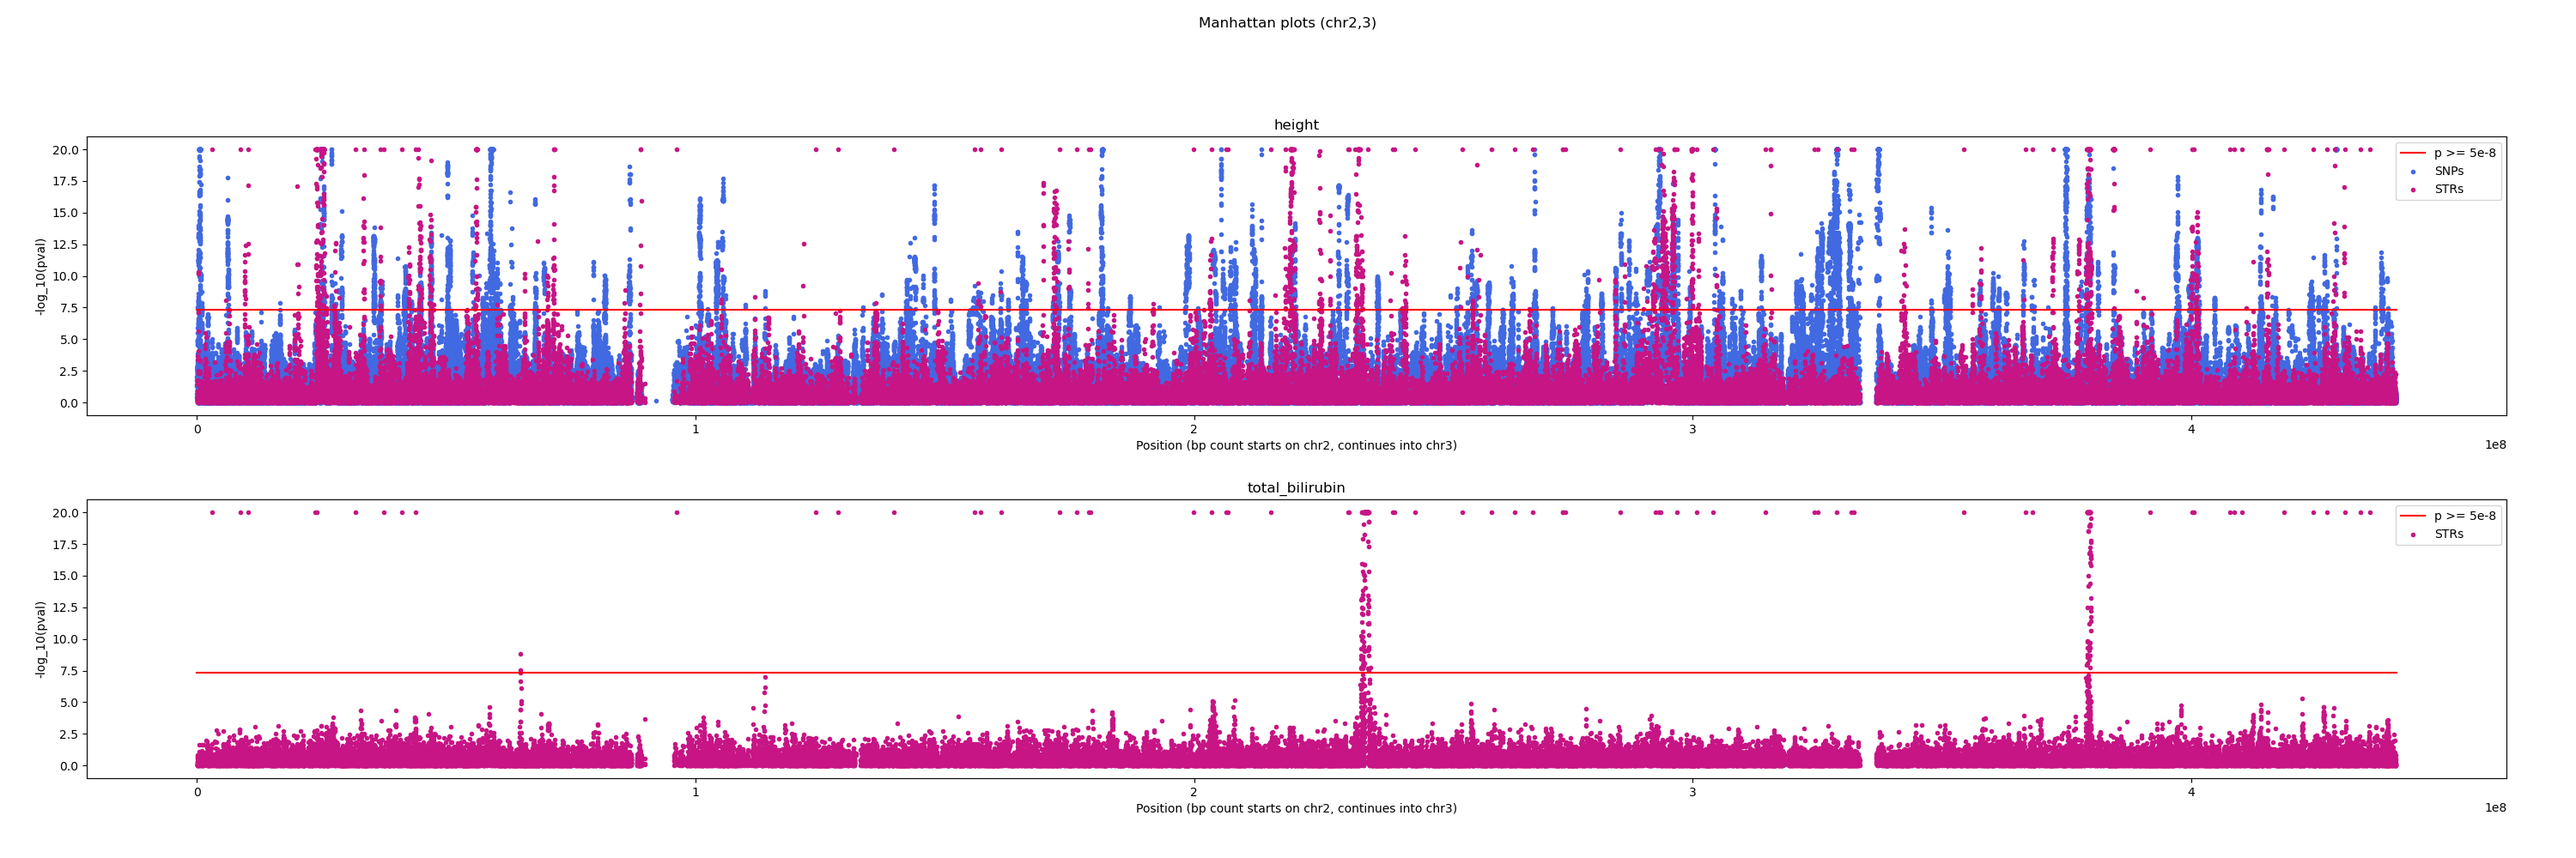
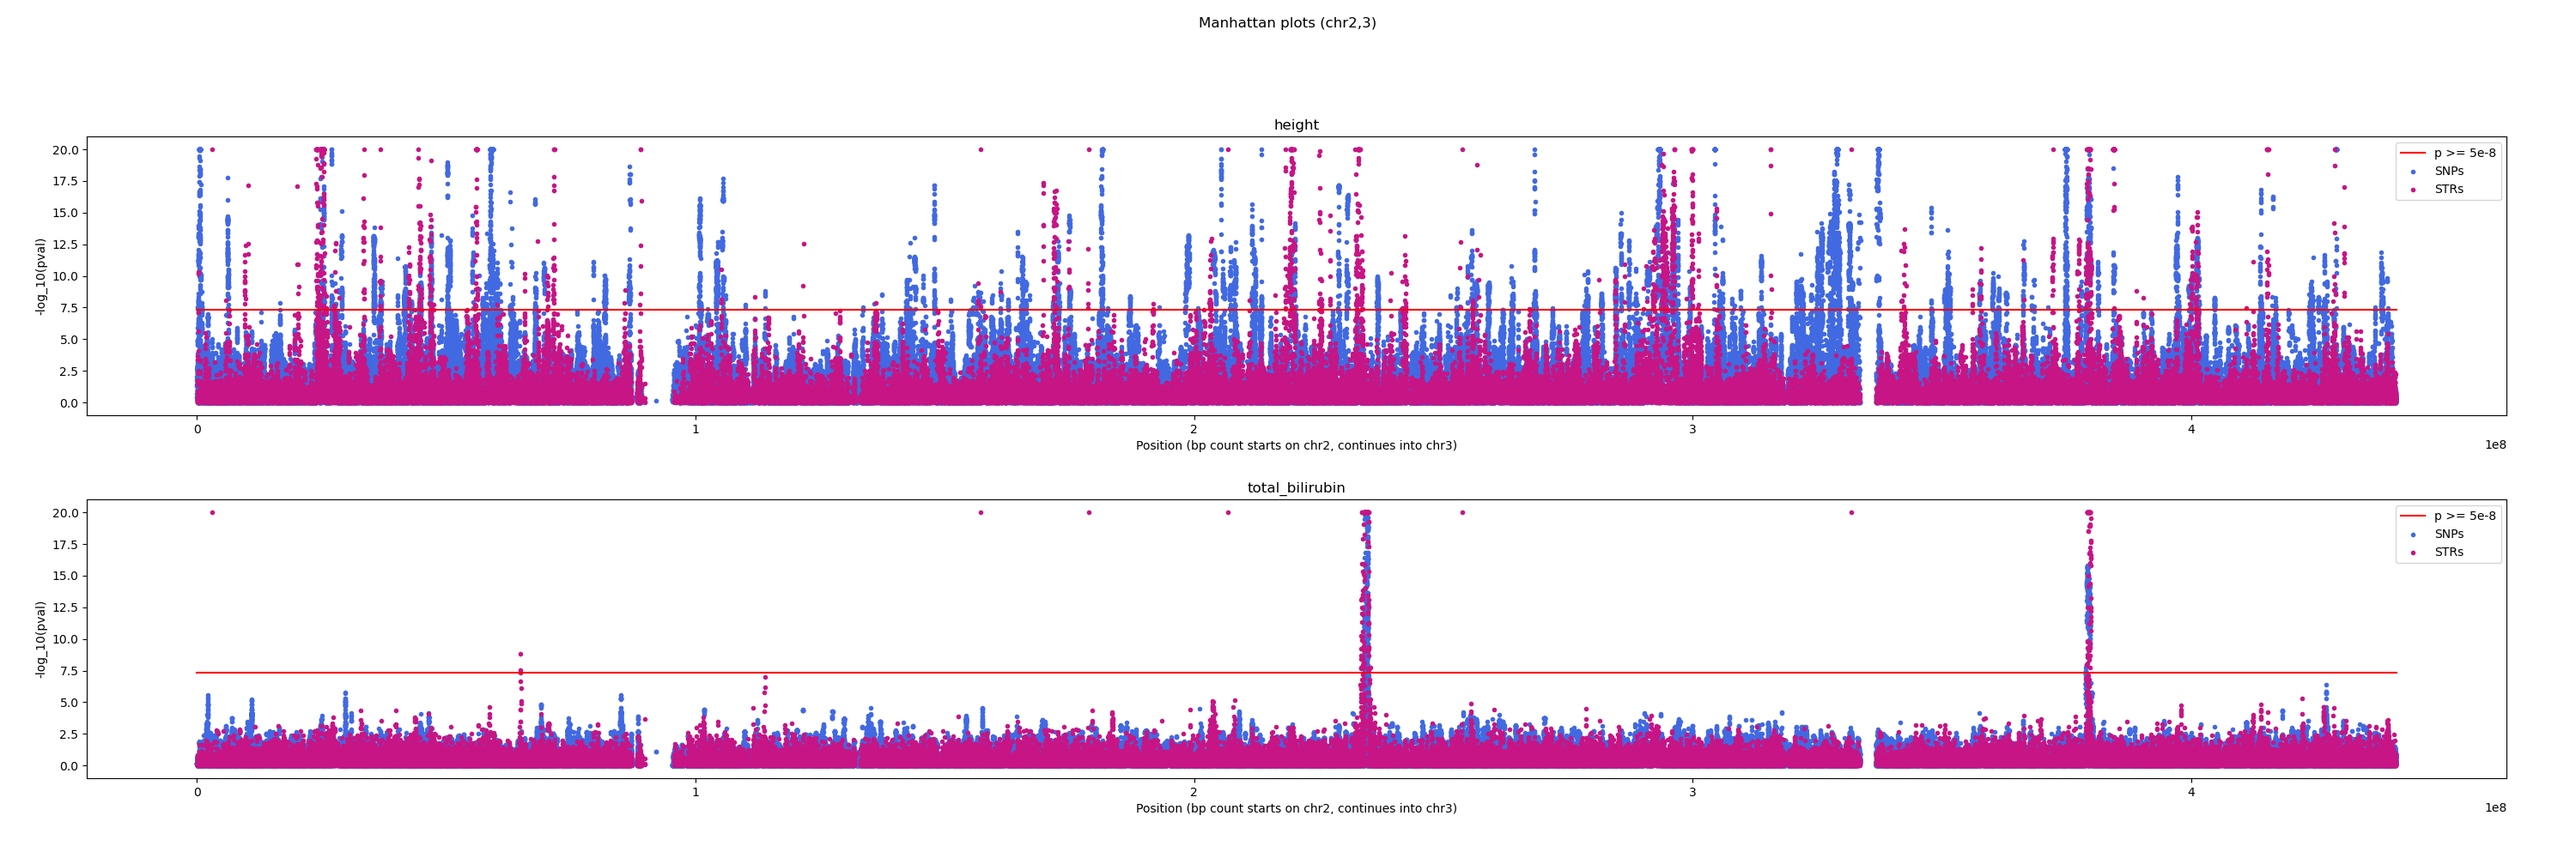
Fix a bunch of the spurious super significant loci, manhattan plot is working, now have bilirubin snp summary stats

Changed region(s): [[0.279, 0.837, 0.93, 0.899], [0.062, 0.837, 0.248, 0.868], [0.93, 0.62, 0.961, 0.651]]

diff --git a/association/fix_trivial_results.py b/association/fix_trivial_results.py
@@ -1,0 +1,53 @@
+import argparse
+import os
+import subprocess as sp
+
+ukb = os.environ['UKB']
+
+def main():
+    parser = argparse.ArgumentParser()
+    parser.add_argument("previous_results_location")
+    parser.add_argument("new_location")
+
+    args = parser.parse_args()
+
+    newname = args.new_location
+    prevname = args.previous_results_location
+
+    if os.path.exists(newname):
+        print(f"File already exists at {newname}")
+        exit(-1)
+
+    with open(newname, 'w') as new, open(prevname) as prev:
+        iprev = iter(prev)
+        new.write(next(iprev)) # header
+        for result_line in iprev:
+            splits = result_line.split()
+            chrom, pos, height_p, bilirubin_p = \
+                    (float(splits[idx]) for idx in [0, 1, 4, 6])
+            chrom = int(chrom)
+            pos = int(pos)
+            if height_p != 0 or bilirubin_p != 0:
+                new.write(result_line)
+                continue
+            print(f"Fixing locus {chrom}:{pos}")
+            cmd = (f'source ~/.bashrc ; '
+                   f'conda activate ukb ; '
+                   f'python {ukb}/association/simple_forloop.py height first_pass '
+                   f'{chrom}_{pos}_rerun {chrom}:{pos}')
+            out = sp.run(cmd, shell=True, capture_output=True, text=True)
+            if out.returncode != 0:
+                print(out.stdout)
+                print(out.stderr)
+                print("Call to simple_forloop.py failed with retcode "
+                      f"{out.returncode}")
+                exit(1)
+            with open(f'{ukb}/association/runs/{chrom}_{pos}_rerun/'
+                      'results.txt') as new_result:
+                inew_result = iter(new_result)
+                next(inew_result) # throw out header
+                new.write(next(inew_result))
+
+
+if __name__ == '__main__':
+    main()

diff --git a/association/make_plots.py b/association/make_plots.py
@@ -20,7 +20,6 @@ def prep_data(data):
     pvals[pvals == 0] = min(pvals[pvals != 0])
     pvals[:] = -np.log10(pvals)
     pvals[pvals > HEIGHT_CUTOFF] = HEIGHT_CUTOFF
-    print(data[pvals == HEIGHT_CUTOFF, 0:2])
     return data[np.argsort(data[:, 2])]
 
 # gets an array of x-axis vals of the corresponding length
@@ -139,29 +138,37 @@ def main():
     args = parser.parse_args()
 
     phenotypes = ['height', 'total_bilirubin']
-    # phenotypes = ['height']
 
     results = {}
+    """
     results['height'] = np.loadtxt(
         f'{ukb}/association/runs/{args.run_name}/results.txt',
         usecols=[0, 1, 4],
         skiprows=1
-    )
+    )"""
     results['total_bilirubin'] = np.loadtxt(
         f'{ukb}/association/runs/{args.run_name}/results.txt',
         usecols=[0, 1, 6],
         skiprows=1
     )
+    print(results['total_bilirubin'][results['total_bilirubin'][:, 2] == 0, 0:2])
+    exit()
     #TODO fix nan alleles!
     for phenotype in phenotypes:
         results[phenotype] = prep_data(results[phenotype])
-
     snp_summary_stats = {}
     snp_summary_stats['height'] = np.loadtxt(
         (f"{ukb}/misc_data/snp_summary_stats/height/"
          "Meta-analysis_Locke_et_al+UKBiobank_2018_UPDATED.txt"),
         usecols=(0, 1, 8),
         skiprows=1
+    )
+    snp_summary_stats['total_bilirubin'] = np.loadtxt(
+        (f"{ukb}/misc_data/snp_summary_stats/bilirubin/"
+         "phenocode-TBil_GWAS_in_BBJ_autosome.tsv"),
+        usecols=(0, 1, 6),
+        skiprows=1,
+        delimiter='\t'
     )
     for phenotype in snp_summary_stats:
         snp_summary_stats[phenotype] = prep_data(snp_summary_stats[phenotype])

diff --git a/association/simple_forloop.py b/association/simple_forloop.py
@@ -417,9 +417,18 @@ def main():  # noqa: D103
 
                 # set gts for regression
                 avg_len_gt = np.sum(gt, axis=1)/2
+                not_nans = avg_len_gt[~np.isnan(avg_len_gt)]
+                trivial_data = np.all(not_nans == not_nans[0])
 
                 #do da regression
                 for dep_var in dep_vars:
+                    if trivial_data:
+                        # OLS thinks models with trivial data are infinitely
+                        # significant. For our purposes, they are not
+                        # significant at all.
+                        results.write(f" 1 nan")
+                        continue
+
                     model = OLS(
                         df[dep_var],
                         np.concatenate((avg_len_gt.reshape(-1, 1),
